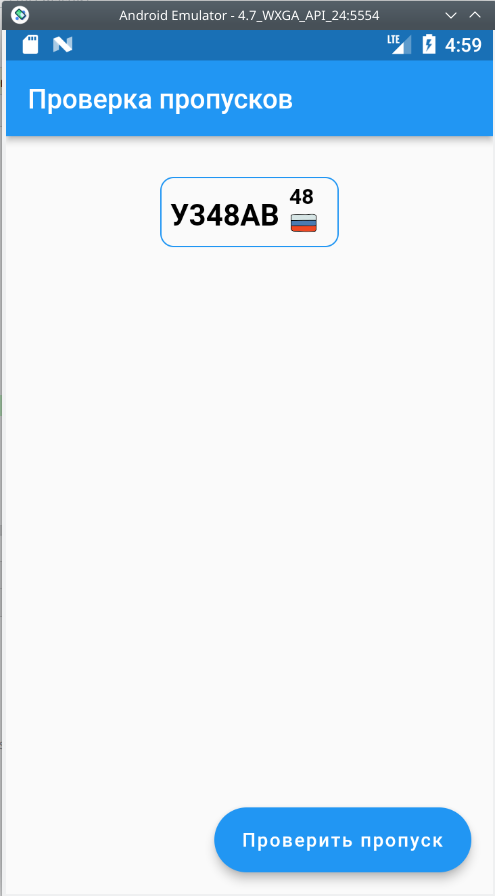
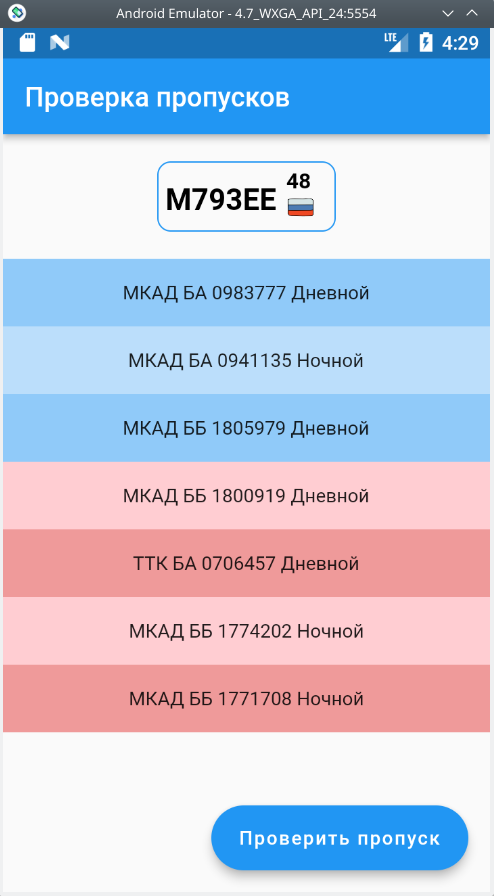
update

diff --git a/lib/main.dart b/lib/main.dart
@@ -1,10 +1,13 @@
 import 'dart:convert';
+import 'dart:io';
 
 import 'package:flutter/material.dart';
 import 'package:flutter/services.dart';
 import 'package:http/http.dart' as http;
+import 'package:lehttp_overrides/lehttp_overrides.dart';
 
 void main() {
+  HttpOverrides.global = LEHttpOverrides();
   runApp(const MyApp());
 }
 
@@ -37,22 +40,55 @@ class MyHomePage extends StatefulWidget {
 class _MyHomePageState extends State<MyHomePage> {
   int _counter = 0;
 
-  void _incrementCounter() async {
-    print("Hello");
+  List<dynamic> entitlements = [];
 
-    var request = http.Request('GET', Uri.parse('http://192.168.91.249:8088/'));
+  final myControllerNum = TextEditingController();
+  final myControllerReg = TextEditingController();
+
+  void _incrementCounter() async {
+    // print("Hello");
+    //
+    // var request = http.Request('GET', Uri.parse('http://192.168.91.249:8088/'));
+    //
+    // http.StreamedResponse response = await request.send();
+    //
+    // if (response.statusCode == 200) {
+    //   List<dynamic> user = jsonDecode(await response.stream.bytesToString());
+    // } else {
+    //   print(response.reasonPhrase);
+    // }
+
+    var headers = {'content-type': 'application/x-www-form-urlencoded; charset=UTF-8'};
+    var request = http.Request('POST', Uri.parse('https://propusk-pro.ru/get_passes.php'));
+    request.body = "string=" + Uri.encodeFull("${myControllerNum.text}${myControllerReg.text}");
+    print(request.body);
+    request.headers.addAll(headers);
 
     http.StreamedResponse response = await request.send();
 
+    entitlements = [];
+
     if (response.statusCode == 200) {
-      List<dynamic> user = jsonDecode(await response.stream.bytesToString());
+      var decodedJson = json.decode(utf8.decode(await response.stream.toBytes()));
+      entitlements = decodedJson;
+      entitlements.forEach((entitlement) {
+        print(entitlement["zone"]);
+      });
     } else {
       print(response.reasonPhrase);
     }
 
-    // setState(() {
-    //   _counter++;
-    // });
+    setState(() {
+      _counter++;
+    });
+  }
+
+  @override
+  void dispose() {
+    // Clean up the controller when the widget is disposed.
+    myControllerNum.dispose();
+    myControllerReg.dispose();
+    super.dispose();
   }
 
   @override
@@ -63,9 +99,10 @@ class _MyHomePageState extends State<MyHomePage> {
       ),
       body: Center(
         child: Column(
+          mainAxisAlignment: MainAxisAlignment.center,
           children: [
             const SizedBox(
-              height: 30,
+              height: 20,
             ),
             Container(
               decoration: BoxDecoration(
@@ -86,56 +123,66 @@ class _MyHomePageState extends State<MyHomePage> {
                         width: 90,
                         height: 50,
                         child: Column(children: [
-                          TextField(
-                              textAlignVertical: TextAlignVertical.top,
-                              style: const TextStyle(
-                                  fontSize: 22.0,
-                                  height: 2.0,
-                                  fontWeight: FontWeight.bold,
-                                  color: Colors.black),
-                              textAlign: TextAlign.right,
-                              decoration:
-                                  const InputDecoration.collapsed(hintText: ""),
-                              keyboardType: TextInputType.text,
-                              inputFormatters: [
-                                LengthLimitingTextInputFormatter(6),
-                              ]),
+                          TextField(controller: myControllerNum, textAlignVertical: TextAlignVertical.top, style: const TextStyle(fontSize: 22.0, height: 2.0, fontWeight: FontWeight.bold, color: Colors.black), textAlign: TextAlign.right, decoration: const InputDecoration.collapsed(hintText: ""), keyboardType: TextInputType.text, inputFormatters: [
+                            LengthLimitingTextInputFormatter(6),
+                          ]),
                         ]),
                       ),
                       SizedBox(
                         width: 30,
                         height: 50,
-                        child: Column(
-                            mainAxisAlignment: MainAxisAlignment.start,
-                            children: <Widget>[
-                              const SizedBox(
-                                height: 4,
-                              ),
-                              TextField(
-                                  textAlign: TextAlign.center,
-                                  decoration: const InputDecoration.collapsed(
-                                      hintText: ""),
-                                  keyboardType: TextInputType.number,
-                                  style: const TextStyle(
-                                      fontWeight: FontWeight.bold,
-                                      color: Colors.black),
-                                  inputFormatters: [
-                                    LengthLimitingTextInputFormatter(2),
-                                  ]),
-                              Image.asset(
-                                'icons/ru.png',
-                                width: 20,
-                              ),
-                            ]),
+                        child: Column(mainAxisAlignment: MainAxisAlignment.start, children: <Widget>[
+                          const SizedBox(
+                            height: 4,
+                          ),
+                          TextField(controller: myControllerReg, textAlign: TextAlign.center, decoration: const InputDecoration.collapsed(hintText: ""), keyboardType: TextInputType.number, style: const TextStyle(fontWeight: FontWeight.bold, color: Colors.black), inputFormatters: [
+                            LengthLimitingTextInputFormatter(2),
+                          ]),
+                          Image.asset(
+                            'icons/ru.png',
+                            width: 20,
+                          ),
+                        ]),
                       ),
                     ],
                   )),
             ),
+            const SizedBox(
+              height: 20,
+            ),
+            Expanded(child: MyList()),
           ],
         ),
       ),
-      floatingActionButton: FloatingActionButton.extended(
-          onPressed: _incrementCounter, label: const Text("Проверить пропуск")),
+      floatingActionButton: FloatingActionButton.extended(onPressed: _incrementCounter, label: const Text("Проверить пропуск")),
+    );
+  }
+
+  MyList() {
+    var MyListW = <Widget>[];
+
+    var i = 200;
+    entitlements.forEach((entitlement) {
+      print(entitlement["passInfo"].toString());
+      var str = entitlement["zone"] + " " + entitlement["passInfo"] + " " + entitlement["period"];
+      var cl = Colors.blue[i];
+      if (entitlement["status"] == "EXPIRED") {
+        cl = Colors.red[i];
+      }
+      MyListW.add(Container(
+        height: 50,
+        color: cl,
+        child: Center(child: Text(str)),
+      ));
+      if (i == 200) {
+        i = 100;
+      } else {
+        i = 200;
+      }
+    });
+
+    return ListView(
+      children: MyListW,
     );
   }
 }

diff --git a/server/pserver.go b/server/pserver.go
@@ -80,7 +80,7 @@ type J struct {
 }
 
 func getData() {
-	url := "https://api-cloud.ru/api/transportMos.php?type=pass&licenseSeries=%D0%91%D0%91&token=&regNumber=%D1%83348%D0%B0%D0%B248"
+	url := "https://api-cloud.ru/api/transportMos.php?type=pass&licenseSeries=%D0%91%D0%91&token=2159537639e5e8aa94fa83092785972b&regNumber=%D1%83348%D0%B0%D0%B248"
 	method := "GET"
 
 	client := &http.Client{}
